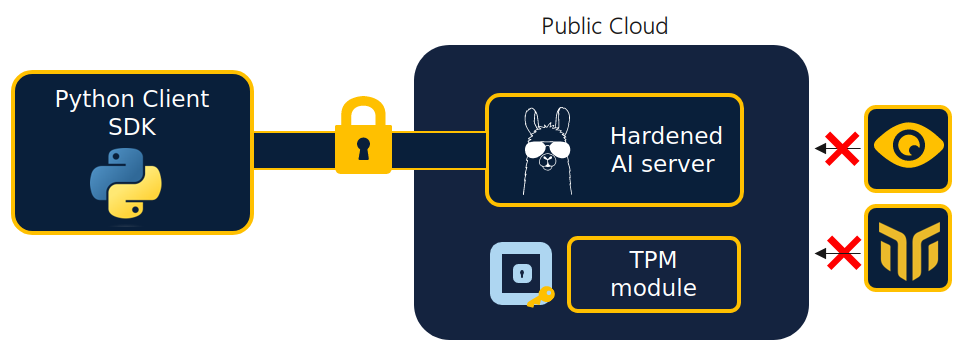
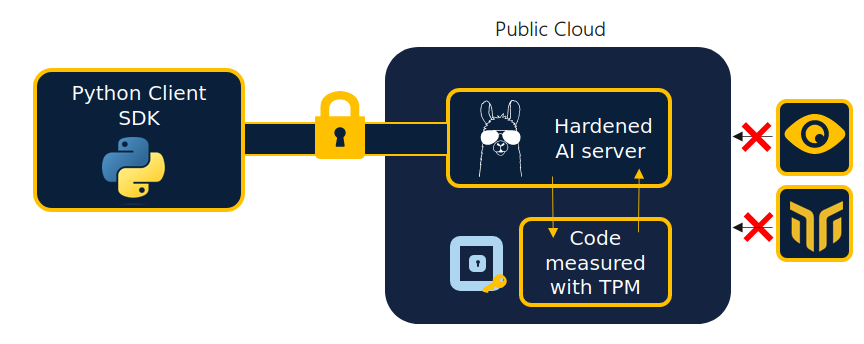
docs: updating docs

Changed region(s): [[0.0, 0.0291, 1.0, 0.9884]]

diff --git a/docs/docs/concepts/TPMs.md b/docs/docs/concepts/TPMs.md
@@ -3,11 +3,15 @@ ________________________________________________________
 
 ### What is a TPM?
 
-TPMs are secure hardware components (usually in the form of a small chip), with built-in cryptographic capabilities and secure storage in the form of Platform Configuration Registers (PCRs). They are used to store secrets such as passwords with enhanced security since they cannot be directly accessed or tampered with by the OS. They can also be used to ensure the integrity of a whole software supply chain by storing measurements relating to the whole software stack of a machine, from the UEFI to the OS, which can then be verified (**or attested**). Note that we can similarly use TPMs to measure and attest additional arbitrary elements such as customizable items.
+TPMs are secure hardware components (usually in the form of a small chip), with built-in cryptographic capabilities and secure storage in the form of Platform Configuration Registers (PCRs). They are generally used to protect secrets such as encryption keys with enhanced security since they cannot be directly accessed or tampered with by the OS. 
+
+In our case, we make use of the TPMs to ensure the integrity of a whole software stack by measuring each component, from the UEFI to the OS, which can then be verified (or **attested**).
+
+In addition, we also use TPMs to measure and attest additional data such as the server code and model weights.
 
 The enhanced security and platform integrity of TPMs is leveraged and offered by all the major Cloud providers in the form of vTPMs, or virtual TPMS. Azure leverages TPMs in their [Trusted Launch](https://learn.microsoft.com/en-us/azure/virtual-machines/trusted-launch) offer, AWS with [NitroTPM & Secure Boot](https://aws.amazon.com/blogs/aws/amazon-ec2-now-supports-nitrotpm-and-uefi-secure-boot/) and Google Cloud with vTPM-compatibility provided across their [VMware Engine](https://cloud.google.com/vmware-engine/docs/vmware-ecosystem/howto-vtpm).
 
-A Virtual Trusted Platform Module (vTPM) is a software-based representation of a physical Trusted Platform Module (TPM) chip which provides all the same functions as the physical chip. The hypervisor creates a secure and isolated region of memory which replicates the isolation of a physical TPM.
+A virtual Trusted Platform Module (vTPM) is a software-based implementation of a physical Trusted Platform Module (TPM) chip which provides all the same functions as the physical chip. The hypervisor creates a secure and isolated region of memory which replicates the isolation of a physical TPM.
 
 ![tpm-vs-vtpm-light](../../assets/tpm-vs-vtpm-light.png#only-light)
 ![tpm-vs-vtpm-dark](../../assets/tpm-vs-vtpm-dark.png#only-dark)
@@ -15,7 +19,9 @@ A Virtual Trusted Platform Module (vTPM) is a software-based representation of a
 
 ## How do we use TPMs in BlindLlama?
 
-### Server-side
+BlindLlama achieves confidentiality of data by first hardening our AI server, i.e. having it reviewed to ensure it is not leaking data, and then proving such a hardened server is actually used by verifying the expected server is loaded. 
+
+### Server side
 
 #### Measuring the software stack
 
@@ -35,40 +41,55 @@ The BlindLlama server then additionally stores hashes of the following elements 
 
 #### Collecting PCR values
 
-The BlindLlama server then requests a signed quote from the TPM which contains these PCR values and is signed by the TPM's Attestation Key (AK), which is derived from a tamper-proof TPM Endorsement Key (EK), and thus cannot be falsified by a third party. The AK never leaves our hardened environment and therefore cannot be accessed, even by admins at Mithril Security.
+The BlindLlama server then requests a signed quote from the TPM which contains these PCR values and is signed by the TPM's Attestation Key (AK). The AK never leaves the TPM and therefore cannot be accessed, even by our admins.
 
 #### Creating proof file
 
-The BlindLlama server includes this quote in a standardized cryptographic proof file, containing hashes from the PCRs and the TPM's quote signature.
+The BlindLlama server includes this TPM's quote in a cryptographic proof file, which also contains a certificate chain used to verify the TPM quote's signature and the server's TLS certificate.
 
 ![proof-dark](../../assets/proof-dark.png#only-dark)
 ![proof-light](../../assets/proof-light.png#only-light)
 
-### Client-side
+### Client side
 
 #### Verifying the proof file
 
-When an end user queries our BlindLlama API, before a secure connection can be established the client will receive and verify the server's **cryptographic proof file**, which includes the TPM's quote signed by the private AK. The server also sends a [cert chain](https://www.ibm.com/docs/en/ztpf/1.1.0.15?topic=ca-certificate-chain-verification), a chain of certificates from the public AK to the cloud provider's root of trust.
+When an end user queries our BlindLlama API, before a secure connection can be established with the server, the client will receive and verify the server's **cryptographic proof file**, which contains **the TPM's quote** signed by the private AK. 
 
-Verification is done in done in three main stages:
+The client also receives a [cert chain](https://www.ibm.com/docs/en/ztpf/1.1.0.15?topic=ca-certificate-chain-verification), a chain of certificates, which is used to verify the TPM quote’s signature.
 
-**Step one:** Firstly, the client checks the public AK using the certificate chain. The certificate chain binds the public AK to the cloud provider's **root of trust**, which enables us to have confidence in our public AK as we have proof it was generated by the cloud provider.
+Verification is done in done in three steps:
+
+**Step one:** The client validates the AK using the certificate chain. This certificate chain is issued by the Cloud provider* and is evidence that the key really is the Attestation Key of one of their TPMs.
 
 ![chain-dark](../../assets/chain-dark.png#only-dark)
 ![chain-light](../../assets/chain-light.png#only-light)
 
-**Step two:**  Now that we have proof that our public AK is authentic, the client uses it to verify the TPM's private AK signature in our cryptographic proof file. This allows us to have confidence that the quote contained within our proof file has been signed by a genuine vTPM.
+**Step two:** Now we have validated the AK, we use the public part of this key to check the TPM's quote's signature. This allows us to have confidence in the authenticity of the TPM quote contained within our proof file.
 
-**Step three:**  Once we have established that our proof file is signed by a genuine vTPM, each of the hashes in the proof file are checked against expected values hardcoded into the client. If any of these hashes does not match with the expected hash, an error will be raised!
+**Step three:**  Once we have established that the TPM quote is authentic, the client recreates the quote's hash values and verifies that they match the values in quote. If any of these hashes do not match with the quote's corresponding hash, an error will be raised!
 
 ![hash-check-dark](../../assets/hash-check-dark.png#only-dark)
 ![hash-check-light](../../assets/hash-check-light.png#only-light)
 
-### Reproducibility of hashed values
+* ⚠ Limitation: There is currently no signed endorsement from Azure regarding the TPM’s attestation key. We are currently working to resolve this issue. 
 
-These checks performed by the client provide robust proofs that our hashed values were measured by a genuine vTPM and that they are the values our client is expecting, but there is a final key element in the security provided by the attestation of open-source code. This final key element is the **reproducibility of hashed PCR values**, meaning the community or any interested party can audit our code, re-build our BlindLlama API and check they end up with the same hashed values relating to our stack and code in their quote from the TPM, meaning they can be sure that these hashes really do relate to the open-source code we provide.
+??? example "Understanding PCR measurements"
 
-We will detail how you can do this in our [advanced security section](../advanced-security/overview.md), which is coming soon!
+  PCR values can either be fixed, and will never change, or changeable.
+
+  For fixed PCR values, every detail of what gets measured is known in advance. Therefore, it's possible to pre-compute the expected value. 
+
+  Such PCR registers typically measure components that don't change across boots, such as firmware. 
+
+  To check them, we compare their values against the expected measurement (called a golden measurement). 
+
+  This is straightforward but rigid. The measured component can't be changed without also changing the golden measurement. So, if the PCR value matches the golden measurement, it means that the component is as expected and has not been tampered with. 
+
+  On the other hand, some PCRs relate to data that can change, such as configuration files. 
+
+  These registers are checked with the help of an event log, which records all events relevant to a particular PCR which can then be used by the verifier to recreate the same hash value. This approach is used for the application layer of BlindLlama.
+
 
 <div style="text-align: left;">
   <a href="../TCB" class="btn">Back</a>

diff --git a/docs/docs/concepts/attested-tls.md b/docs/docs/concepts/attested-tls.md
@@ -3,13 +3,9 @@ ________________________________________________________
 
 ## What is attested TLS?
 
-Attested TLS combines the security of data in transit with [TLS](https://hpbn.co/transport-layer-security-tls/) with the security and privacy of data in computation via an isolated and hardware-attested endpoint environment.
+Attested TLS combines the security of data in transit with [TLS](https://hpbn.co/transport-layer-security-tls/) with a proof of the identity of the server, which in our case is part of a verified hardened system.	
 
-It has been said of TLS that:
-
-*"Using encryption on the Internet is the equivalent of arranging an armored car to deliver credit-card information from someone living in a cardboard box to someone living on a park bench."* [Source here](http://catless.ncl.ac.uk/Risks/19.37.html)
-
-It is all very well to secure our data in transit with TLS when using APIs, but data is often left exposed and accessible once it arrives at the endpoint.
+In comparison, regular TLS only prevents outside parties from knowing users’ information when it is transit to the AI provider. It does not protect data from the AI provider itself on arrival at the endpoint.
 
 Attested TLS is often deployed in the context of [Confidential Computing](https://www.fortanix.com/platform/confidential-computing-manager/what-is-confidential-computing) where a secure TLS connection is directs communications to within an attested isolated environment, or [Trusted Execution Environments](https://www.techtarget.com/searchitoperations/definition/trusted-execution-environment-TEE), which cannot be accessed or interfered with from the outside.
 
@@ -22,9 +18,9 @@ Let's take a look at how we attested TLS works in BlindLlama step-by-step:
 ### Server side
 
 1. We deploy the BlindLlama server on Mithril Cloud
-2. On deployment, the server creates a tls-terminating reverse proxy. The reverse proxy provider takes care of generating the TLS certificate required for secure communications. The client will communicate with this reverse proxy server, which will relay the inbound/outbound communications to the BlindLlama server.
-3. The caddy-generated TLS certificate is hashed by the BlindLlama server and stored in the TPM platform register PCR15. For more details about TPMs and PCRs, see our guide on [TPMs](./TPMs.md).
-4. The server generates a cryptographic proof file that includes all the hashed values stored in the TPM's PCRs. The TLS certificate is therefore included in the proof file, which is then shared with clients when they connect with the server.
+2. On deployment, the server creates a tls-terminating reverse proxy. The reverse proxy provider takes care of generating the TLS certificate required for secure communications. Since this is done within our hardened isolated environment, it remains protected and is not accessible even to our admins. The client will communicate with this reverse proxy server, which will relay the inbound/outbound communications to the BlindLlama server.
+3. The TLS certificate is hashed by the BlindLlama server and stored in the TPM platform register PCR15. For more details about TPMs and PCRs, see our guide on [TPMs](./TPMs.md).
+4. The TLS certificate is hashed and included in a cryptographic proof file, which is then shared with clients when they connect with the server for verification.
 
 
 ![tls-hash-light](../../assets/tls-hash-light.png#only-light)
@@ -33,17 +29,19 @@ Let's take a look at how we attested TLS works in BlindLlama step-by-step:
 
 ### Client side
 
-When the end user connects to the BlindLlama server, the client will receive the following from the server:
+When the end user connects to the BlindLlama server, the client will receive the following assets from the server:
   + The server's TLS certificate from the connection
   + The cryptographic proof file from the server
-
+  + A certificate chain used to verify the TPM's signature.
 
 ![certificates-light](../../assets/certificates-light.png#only-light)
 ![certificates-dark](../../assets/certificates-dark.png#only-dark)
 
-This proof file contains a hash of the server's TLS certificate, which is automatically verified against the certificate of the current connection. 
+This proof file contains a hash of the server's TLS certificate, which is automatically verified against the TLS certificate of the current connection. 
 
 If the TLS certificate hash in the proof file does not match the hash of the TLS certificate of the server in the current connection, the connection will fail and an error is raised.
+
+This prevents man-in-the-middle attacks. If a malicious server were to intercept and forward the expected proof file, we would still be alerted to the fact that the server we are communicating with does not have the expected TLS certificate hash, and communications with this server would end there.
 
 ![matching-light](../../assets/matching-light.png#only-light)
 ![matching-dark](../../assets/matching-dark.png#only-dark)

diff --git a/docs/docs/getting-started/how-we-achieve-zero-trust.md b/docs/docs/getting-started/how-we-achieve-zero-trust.md
@@ -1,0 +1,67 @@
+# How we achieve zero trust
+________________________________________________________
+
+On this page, we will present a global overview of how we ensure that data sent to our Zero-trust AI APIs remains confidential and how we prove that even our own admins cannot see users’ data. 
+
+> The [concepts section](../concepts/overview.md) provides a more in-depth explanation of the building blocks we use to ensure user data remains private in our Zero-trust AI APIs.
+
+The key to achieving zero trust is our **secure and transparent systems by design**:
+
+- We design the **hardened AI server to be verifiable**.
+
+- We provide a client library to **securely consume** the AI API. 
+
+- BlindLlama is also **optimized for auditability**, so that external auditors can completely audit the solution. 
+
+At the end of this process, users will know that when using our Python SDK, **they will be able to verify that they are talking to a privacy-friendly AI service that will not expose their data**.
+
+## Server side
+
+![toolchain-light](../../assets/secure-tooling-light.png#only-light)
+![toolchain-dark](../../assets/secure-tooling-dark.png#only-dark)
+
+### 1. Hardening the AI server to ensure privacy
+
+We remove all admin/operator access from the AI server, such as SSH access to the machine. This means that once the AI server is running, we are blind to data sent to the service. Because we have no access to data, we can neither see it nor use it for any other purposes. This ensures that no insider threat can impact our production services.
+
+We provide more details about **hardened systems** in our [concepts guide](../concepts/hardened-systems.md).
+
+### 2. Proving privacy controls are applied
+
+While other solutions may also claim to put similar controls in place, they usually provide no technical evidence regarding how AI providers will handle or use data. Even where a code base is open-source, users cannot check the server they connect to hosts the application they expect and nothing else.
+
+With BlindLlama, we use secure hardware, [Trusted Platform Modules (TPMs)](../concepts/TPMs.md), to create a cryptographic proof file to show that the expected hardened server really is deployed in our backend. Before sending any data, end users verify this proof file to make sure they are talking to a privacy-preserving AI infrastructure using our client-side SDK. 
+
+We provide more information about TPMs in our [concepts guide](../concepts/TPMs.md).
+
+### 3. Auditing the whole stack
+
+The security and privacy properties we provide are derived from code integrity, i.e. having cryptographic proof that the server we connect to is running the expected BlindLlama open-source code.
+
+But being able to prove we are serving this code is not the full picture.
+
+For users to fully trust us, there needs to be reviews of the codebase for both the Python SDK that performs verification and the BlindLlama server.
+
+Our code is open-source and we encourage the community to review our codebase. We have already had one of our AI deployment solutions, [BlindAI](https://github.com/mithril-security/blindai), audited by [Quarkslab](https://www.quarkslab.com/). Community and professional audits help to provide a high level of confidence that our hardened environments implement all the security checks we say they do.
+
+You can find get more details on our implementation of our verifiable Zero-trust API in our [advanced security section](../advanced-security/overview.md)(**coming soon!**).
+
+
+## Client side
+
+![consumption-light](../../assets/consumption-light.png#only-light)
+![consumption-dark](../../assets/consumption-dark.png#only-dark)
+
+### 1. Attestation
+
+Before any data can be sent by the end user to the BlindLlama server, the client first verifies that the AI server is running the expected codebase.
+
+This is done by verifying the proof file provided by the server. This file is derived from secure hardware (a TPM) and is used to verify that the expected codebase has been launched.
+
+### 2. Attested TLS
+
+The server also provides the client with its TLS certificate. This is unique to the server and is used by the client to verify they are talking to the genuine BlindLLama server. If the verification is succesful, the TLS certificate is used to communicate with the hardened AI server using TLS. 
+
+> The TLS certificate is signed by a private key that lives inside and never leaves the hardened environment. 
+
+More information about attestation and attested TLS can be found in our [concepts guide](../concepts/attested-tls.md).

diff --git a/docs/docs/concepts/hardened-systems.md b/docs/docs/concepts/hardened-systems.md
@@ -1,0 +1,51 @@
+# Hardened systems
+________________________________________________________
+
+## What are hardened systems?
+
+Hardened systems operate without special administrative privileges or backdoors. The underlying principle is that once a system comes into contact with confidential data, it should not be possible even for administrators to get privileged access to the system and the system should operate predictably. This is essential for achieving high-security standards, as the security of a system is only as strong as its weakest link, and it is often the humans that are the weakest link in otherwise reasonably secure systems.
+
+Protecting data within an environment from external access and manipulation, is not a new concept, with one of the most robust examples coming in the form of [Confidential Computing's](https://www.ibm.com/topics/confidential-computing) [Trusted Execution Environments](https://www.techtarget.com/searchitoperations/definition/trusted-execution-environment-TEE).
+
+Let's now find out more about BlindLlama's hardened environments and how we protect these environments from outside access.
+
+## How do we create hardened environments in BlindLlama?
+
+To ensure data security, we:
+
++ Modify the OS image and VM configurations to eliminate all system administrator's access. For instance, there is no SSH access to the server.
++ Limit or remove telemetry and logging that is sent to external monitoring services.
+
+> We consider local-only logs to be safe as long as they never leave the hardened system, so there is no need to disable them.
+
+For enhanced security, we deploy a minimal OS. The OS runs entirely in RAM rather than using the disk. This is to eliminate the risks associated with disk usage such as confidential data leakage via the filesystem and system integrity corruption.
+
+![hardened-env-dark](../../assets/hardened-dark.png#only-dark)
+![hardened-env-light](../../assets/hardened-light.png#only-light)
+
+## Security measures and process
+
+Before deploying a service, a full hardening and audit of the application layer is done.
+
+A pen testing of the server is done to:
+
++ Have an overview of the software and its attack surface
++ Remove all the possible accesses or controls that represent a threat 
+
+Following this, remediation of any issues found is done.
+
+While hardening the server image, memory management is a crucial part of securing the runtime software. Strict isolation of the image is done through configuration by disabling or restricting multiple accesses.
+
+On the network side, only the required ports will be open and used, and all the data in transit will be encrypted through the attested TLS encryption mechanism (which we discuss [in the last section this guide](./attested-tls.md)) to ensure the integrity and confidentiality of the data. Furthermore, a thorough review of the web-based APIs included is taken into account. 
+
+Access control is also reviewed, as it is a common attack surface. If needed, we limit and restrict users and privileges.
+ 
+Every verification that goes into delivering the hardened environment will be detailed in a deliverable that will also contain a full auditing report resulting from the pen testing and remediation actions.
+
+<div style="text-align: left;">
+  <a href="../overview" class="btn">Back</a>
+</div>
+
+<div style="text-align: right;">
+  <a href="../TCB" class="btn">Next</a>
+</div>

diff --git a/docs/docs/blind_llama/trust-model.md b/docs/docs/blind_llama/trust-model.md
@@ -1,7 +1,7 @@
 # Trust model
 ________________________________________________________
 
-On this page, we will explain more precisely what components/parties have to be trusted when using BlindLlama.
+On this page, we will explain more precisely which parties have to be trusted when using BlindLlama.
 
 To understand better which components and parties are trusted with BlindLlama, let’s start by examining who or what is trusted with regular AI services.
 
@@ -13,17 +13,19 @@ In the case of an AI provider serving an AI API to end users on a Cloud infrastr
 
 + **The Cloud provider**: they provide the infrastructure, Hypervisor, VMs and OS, to the AI provider.
 
-+ **The hardware providers**: they provide the lowest physical components, CPU, GPU, TPMs, etc. to the Cloud provider who then manages those to resell infrastructure to the AI providers. 
++ **The hardware providers**: they provide the physical components, CPU, GPU, TPMs, etc. to the Cloud provider. 
 
-The higher the party in the stack, the closer they are to the data, and the more they are in a position to expose data.
+The higher the party in the stack, the closer they are to the data. Thus, the AI provider if malicious or negligent represents the biggest security risk for the user of the API.
 
-In most scenarios today, there is often blind trust in the AI provider, aka **we send data to them without any technical guarantees that they will do what they said they would do**. For instance, the AI provider could say they just do inference on data, while they could actually train models on users’ data.
+In most scenarios today, there is often blind trust in the AI provider, aka **we send data to them without any technical guarantees regarding how they will handle or use our data**. For instance, the AI provider could say they just do inference on data, while they could actually train models on users’ data. And even if most AI providers are honest, there is no way to know if their security practices are strong enough to protect your data.
 
 For privacy-demanding users that require more technical guarantees, they often choose simply not to use AI APIs as they cannot trust AI providers with their confidential data.
 
 ## Trusted parties with BlindLlama
 
-With BlindLlama, we remove the AI provider from the list of trusted parties. When models are served with BlindLlama, users' data cannot be seen by the AI provider because we use a Zero-trust AI infrastructure that removes the service/AI provider from the trust base. We can prove such controls are in place using [TPM-based attestation](../concepts/TPMs.md).
+With BlindLlama, we remove the AI provider from the list of trusted parties. When models are served with BlindLlama, users' data cannot be seen by the AI provider because we use a Zero-trust AI infrastructure that removes the need to trust us. 
+	
+We can prove such controls are in place using [TPM-based attestation](../concepts/TPMs.md).
 
 ![trust-model-light](../../assets/trust-model-light.png#only-light)
 ![trust-model-dark](../../assets/trust-model-dark.png#only-dark)

diff --git a/docs/docs/concepts/TCB.md b/docs/docs/concepts/TCB.md
@@ -7,9 +7,12 @@ Normally, when you run an application on a machine, you need to trust multiple e
 
 These trusted elements make up what we call the **Trusted Computing Base** or **TCB** of our application.
 
-With a typical AI API, the Cloud provider buys the **hardware** and provides a VM with a particular **OS** through a **hypervisor** to the AI API provider, who deploys **their server code and model weights** on that VM.
+In the context of a regular AI API deployed in the Cloud, the TCB is made of:
 
-These elements all need to be trusted and make up the TCB of the API.
++ The hardware: the physical infrastructure on which everything runs. This includes the actual servers, the networking equipment, storage devices, etc. If there's a hardware vulnerability (like the well-known Meltdown or Spectre vulnerabilities that affected many modern processors), it can undermine the security of everything running on that hardware.
++ The hypervisor: it is responsible for creating, managing, and isolating virtual machines (VMs) on a single physical host. If there's a vulnerability in the hypervisor, malicious entities might escape their VM and affect other VMs on the same host. In the cloud, the hypervisor is the responsibility of the cloud provider.
++ The guest operating system: it provides the environment in which the applications run. Vulnerabilities at this level can allow unauthorized access, privilege escalation, or other malicious activities.
++ The application code and model weights of the AI: If there's a vulnerability in the server code or if someone can tamper with the model's weights, they might be able to produce undesired outputs, exfiltrate data, or crash the system.
 
 ## What is the TCB for BlindLlama?
 
@@ -21,7 +24,7 @@ With BlindLlama, like with a typical API set-up, we still have to trust the **Cl
 > Note, this is simplified as there are many more components that are part of the stack we could have included, such as the bootloader, kernel, etc.
 
 <div style="text-align: left;">
-  <a href="../hardened-environments" class="btn">Back</a>
+  <a href="../hardened-systems" class="btn">Back</a>
 </div>
 
 <div style="text-align: right;">

diff --git a/docs/docs/concepts/overview.md b/docs/docs/concepts/overview.md
@@ -5,11 +5,11 @@ In this `concepts` section, we will describe the key concepts that are at the co
 
 The concepts we will cover are:
 
-+ [**Hardened environments**](./hardened-environments.md): We describe how we harden the BLindLlama server to eliminate data exposure, even to our admins
++ [**Hardened systems**](./hardened-systems.md): We describe how we use hardened systems to eliminate data exposure, even to our admins
 + [**Trusted Computing Base (TCB)**](./TCB.md): We detail which elements of our computing base are trusted or attested
 + [**Trusted Platform Modules (TPMs)**](./TPMs.md): We explain how we use TPMs to provide cryptographic proof that our privacy and security measures are in place
-+ [**Attested TLS**](./TPMs.md): We describe how we combine secure communications with attested hardened environments to provide robust end-to-end data protection and prove we are really communicating with our hardened environment
++ [**Attested TLS**](./TPMs.md): We describe how we combine secure communications with attested hardened environments to provide robust end-to-end data protection and prove we are communicating with our hardened environment
 
 <div style="text-align: right;">
-  <a href="../hardened-environments" class="btn">Next</a>
+  <a href="../hardened-systems" class="btn">Next</a>
 </div>

diff --git a/client/README.md b/client/README.md
@@ -150,7 +150,7 @@ BlindLlama virtually provides the same level of security, privacy, and control a
 ## 🚀 Getting started
 
 - Check out our [Quick tour](https://blindllama.mithrilsecurity.io/en/latest/docs/getting-started/quick-tour/), which will enable you to play with an example using the [Llama 2](https://huggingface.co/meta-llama/Llama-2-7b) model while ensuring your data remains private and without the hassle of provisioning!
-- Find out more about [How we protect your data](https://blindllama.mithrilsecurity.io/en/latest/docs/getting-started/how-we-protect-your-data/)
+- Find out more about [How we protect your data](https://blindllama.mithrilsecurity.io/en/latest/docs/getting-started/how-we-achieve-zero-trust/)
 - Refer to our [Concepts](https://blindllama.mithrilsecurity.io/en/latest/docs/getting-started/concepts/) guide for more information on key concepts
 - Learn more about BlindLlama's design with our [BlindLlama 101](https://blindllama.mithrilsecurity.io/en/latest/docs/getting-started/blindllama-101/) guide
 

diff --git a/docs/index.md b/docs/index.md
@@ -60,7 +60,7 @@ BlindLlama virtually provides the same level of security, privacy, and control a
 ________________________________________________________
 
 - Check out our [Quick tour](./docs/getting-started/quick-tour.ipynb), which will enable you to play with an example using the [Llama 2](https://huggingface.co/meta-llama/Llama-2-7b) model while ensuring your data remains private and without the hassle of provisioning!
-- Find out more about [How we protect your data](./docs/getting-started/how-we-protect-your-data.md)
+- Find out more about [How we protect your data](./docs/getting-started/how-we-achieve-zero-trust.md)
 - Discover the [architecture](./docs/blind_llama/architecture.md) and [trust model](./docs/blind_llama/trust-model.md) behind BlindLlama.
  
 <!--
